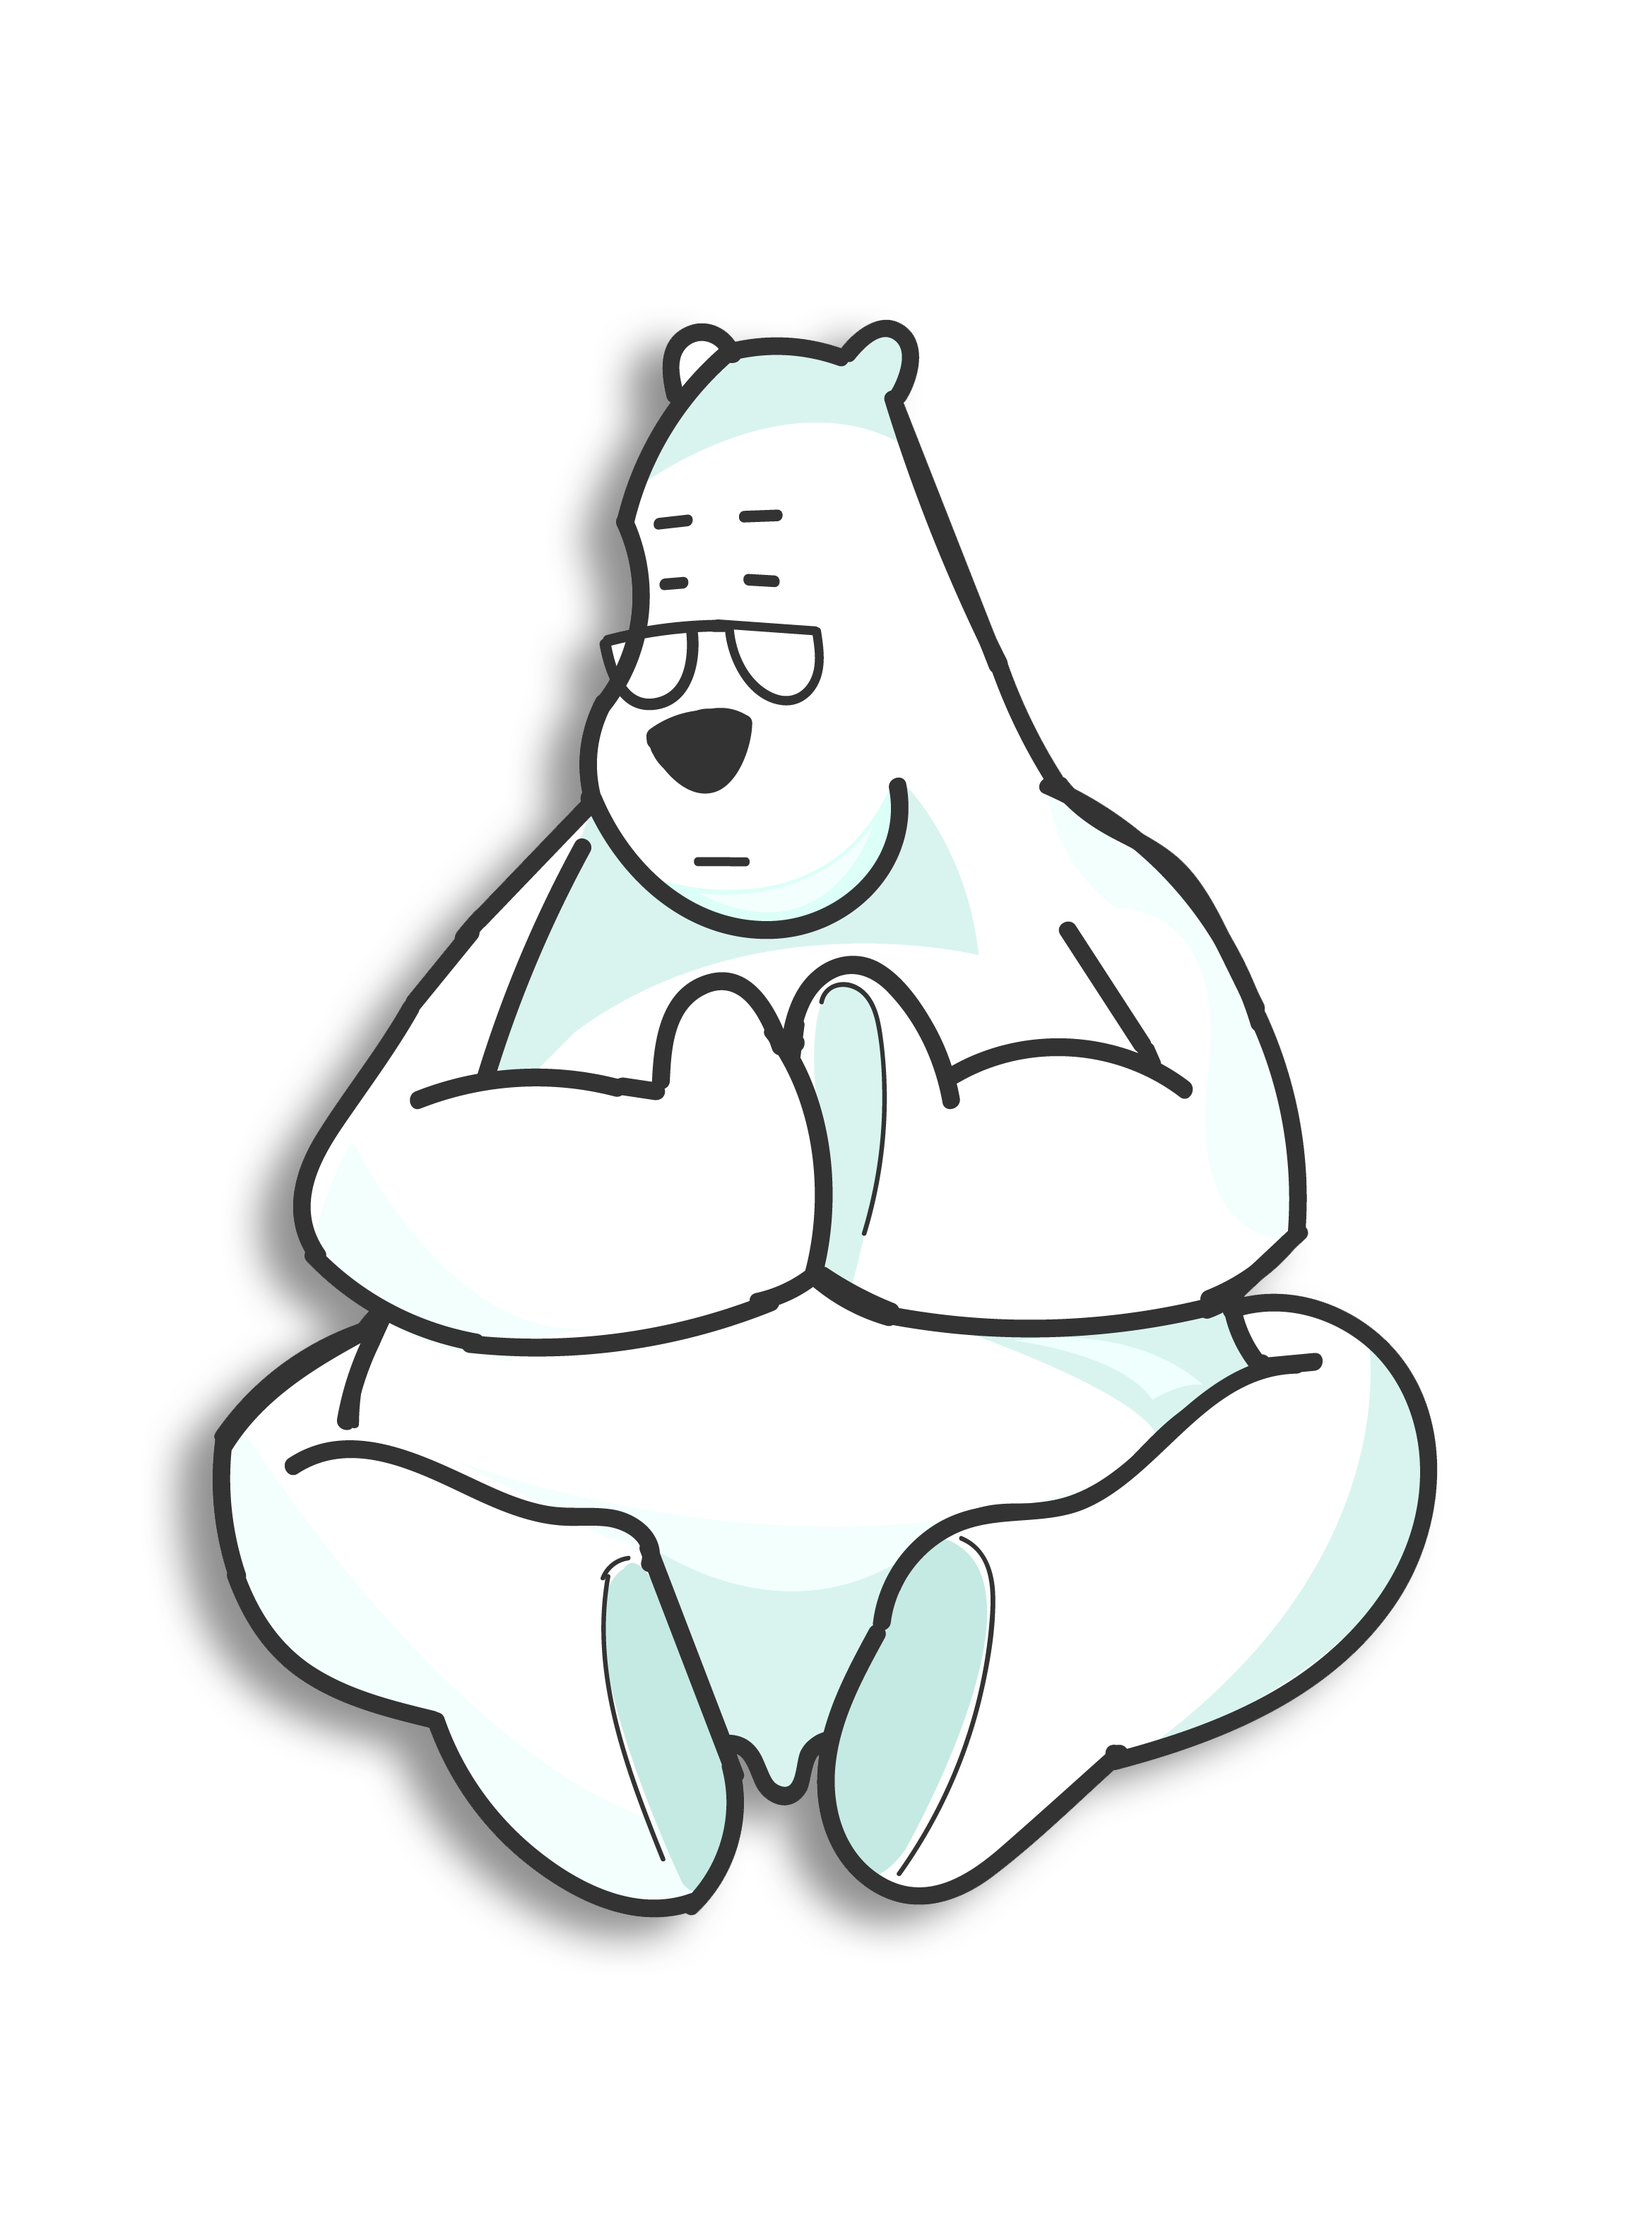
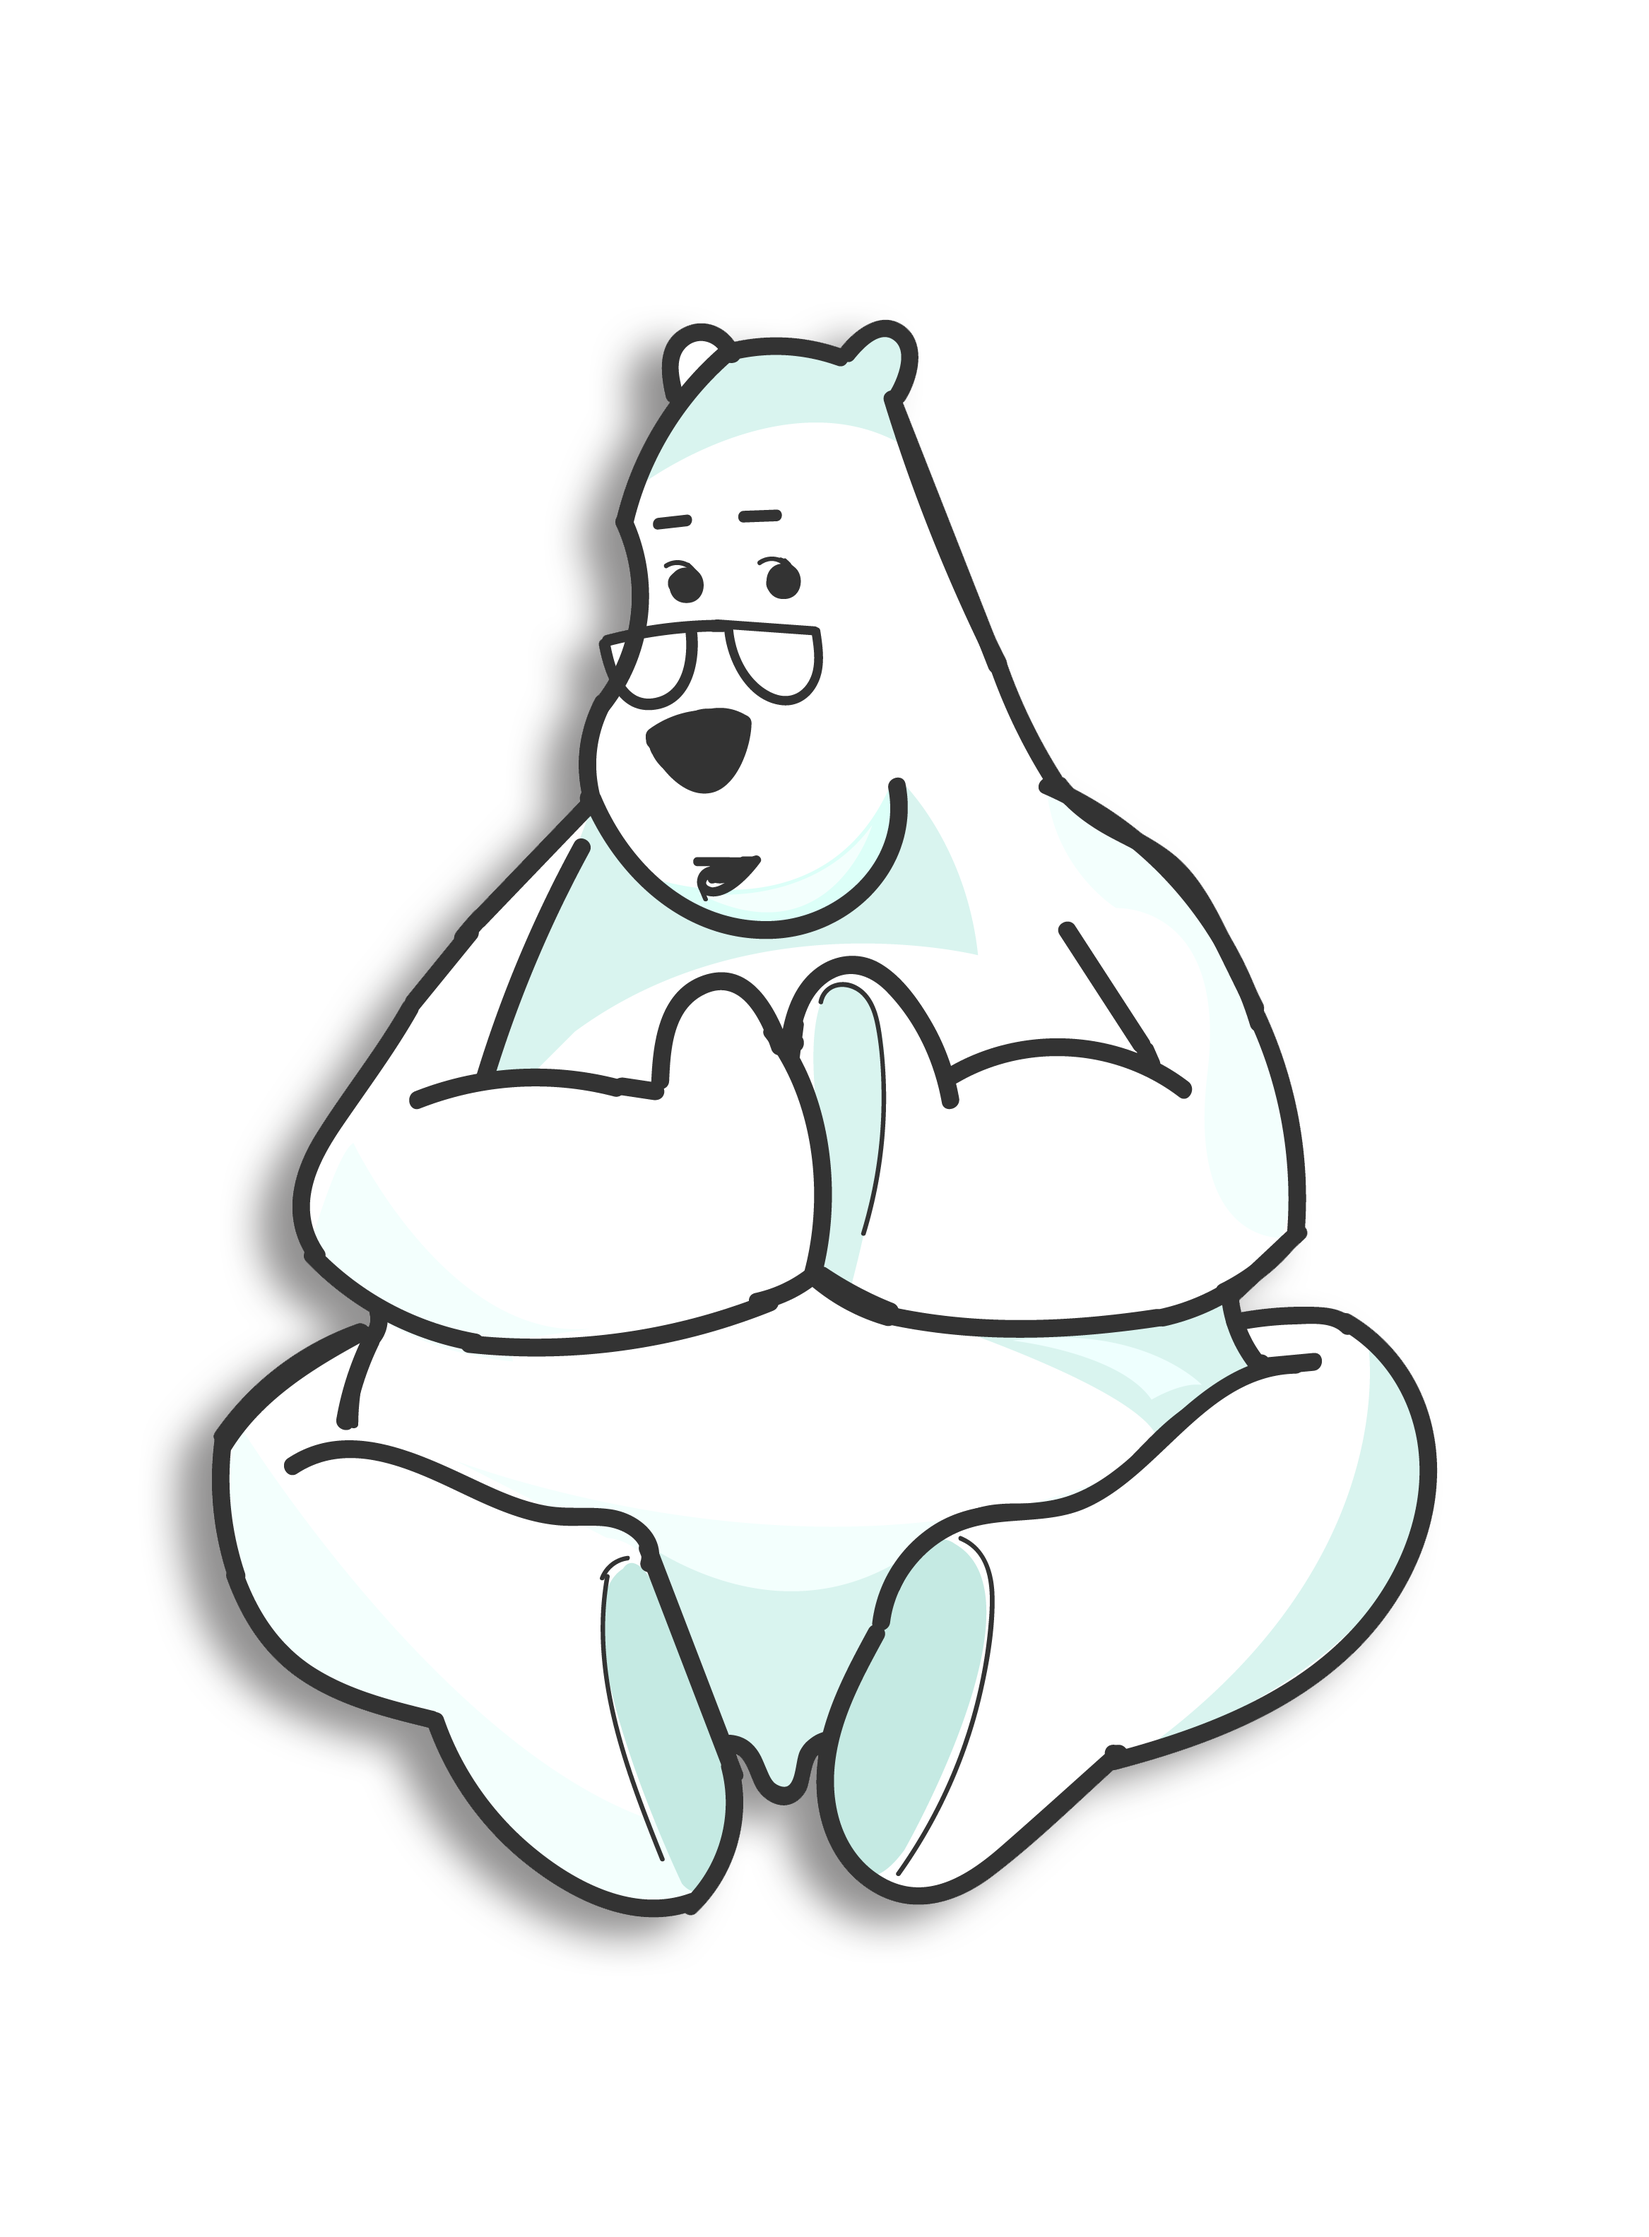
Update Bear animation

diff --git a/style/animation.css b/style/animation.css
@@ -1,6 +1,6 @@
 .animation-container {
   position: fixed;
-  bottom: 1.5em;
+  bottom: 0.5em;
   right: 0;
   z-index: 1000;
   display: -webkit-box;
@@ -16,7 +16,7 @@
 }
 
 .animation-container .character {
-  max-width: 90px;
+  max-width: 120px;
   margin-top: 15px;
   -webkit-animation-name: meditation;
           animation-name: meditation;
@@ -27,13 +27,24 @@
   -webkit-animation-timing-function: ease-in-out;
           animation-timing-function: ease-in-out;
   cursor: pointer;
+  position: absolute;
+  bottom: 0;
+}
+
+.animation-container .first {
+  opacity: 1;
+}
+
+.animation-container .second {
+  opacity: 0;
 }
 
 .animation-container .thinkings {
   display: -webkit-box;
   display: -ms-flexbox;
   display: flex;
-  visibility: hidden;
+  opacity: 0;
+  height: 230px;
 }
 
 .animation-container .thinkings .thinking {
@@ -91,12 +102,12 @@
 }
 
 .animation-container .thinkings .thinking:nth-of-type(1) {
-  -webkit-transform: rotate(-45deg) translate(-45px, 50px);
-          transform: rotate(-45deg) translate(-45px, 50px);
+  -webkit-transform: rotate(-55deg) translate(-70px, 60px);
+          transform: rotate(-55deg) translate(-70px, 60px);
 }
 
 .animation-container .thinkings .thinking:last-child {
-  -webkit-transform: rotate(45deg) translate(45px, 50px);
-          transform: rotate(45deg) translate(45px, 50px);
+  -webkit-transform: rotate(55deg) translate(70px, 60px);
+          transform: rotate(55deg) translate(70px, 60px);
 }
 /*# sourceMappingURL=animation.css.map */

diff --git a/quienes-somos.html b/quienes-somos.html
@@ -36,7 +36,8 @@
             <div class="container">
                 <div class="content-left">
 					<h2>Nuestro Director</h2>
-					<p>Lorem Ipsum is simply dummy text of the printing and typesetting industry. Lorem Ipsum has been the industry's standard dummy text ever since the 1500s and typesetting industry, when an unknown printer took a galley of type and scrambled it to make a type specimen book. It has survived not only five centuries, but also the leap into electronic typesetting when an unknown printer took a galley of type and scrambled it to make a type specimen book.</p>
+					<p>Desde hace años DH se ha dedicado exclusivamente a estudiar, entender y modelar el comportamiento de equipos de trabajo, persiguiendo siempre un solo ideal: impulsar ORGANIZACIONES FELICES y PRODUCTIVAS. La experiencia lograda tanto en el Perú y el extranjero nos permite proclamarnos como especialistas en el modelaje de la conducta grupal humana en el trabajo.</p>
+					<p>Por eso proponemos servicios que ayuden a construir organizaciones inteligentes, con colaboradores proactivos, felices y con propósito.</p>
 					<img src="assets/images/director.png" alt="Hans">
 				</div>
 				<div class="content-right">

diff --git a/style/animation.scss b/style/animation.scss
@@ -1,6 +1,6 @@
 .animation-container{
     position: fixed;
-    bottom: 1.5em;
+    bottom: 0.5em;
     right: 0;
     z-index: 1000;
     display: flex;
@@ -8,18 +8,29 @@
     align-items: center;
 
     .character {
-        max-width: 90px;
+        max-width: 120px;
         margin-top: 15px;
         animation-name: meditation;
         animation-duration: 4s;
         animation-iteration-count: infinite;
         animation-timing-function: ease-in-out;
         cursor: pointer;
+        position: absolute;
+        bottom: 0;
+    }
+
+    .first {
+        opacity: 1;
+    }
+
+    .second {
+        opacity: 0;
     }
 
     .thinkings {
         display: flex;
-        visibility: hidden;
+        opacity: 0;
+        height: 230px;
 
         .thinking {
             position: relative;
@@ -72,11 +83,11 @@
         }
 
         .thinking:nth-of-type(1) {
-            transform: rotate(-45deg) translate(-45px, 50px);
+            transform: rotate(-55deg) translate(-70px, 60px);
         }
 
         .thinking:last-child {
-            transform: rotate(45deg) translate(45px, 50px);
+            transform: rotate(55deg) translate(70px, 60px);
         }
     }
 }

diff --git a/index.html b/index.html
@@ -85,7 +85,8 @@
 				<a href="contacto.html" class="thinking explicit">Agenda una reunión</a>
 				<a href="servicios.html" class="thinking explicit">Conócenos</a>
 			</div>
-			<img class="character" src="./assets/images/oso_sabio.png" alt="DH Corp Oso">
+			<img class="character first" src="./assets/images/oso_sabio1.png" alt="DH Corp Oso">
+			<img class="character second" src="./assets/images/oso_sabio2.png" alt="DH Corp Oso">
 		</div>
 		<script src="https://code.jquery.com/jquery-3.3.1.min.js"></script>
 		<script src="https://cdnjs.cloudflare.com/ajax/libs/Swiper/4.0.7/js/swiper.js"></script>
@@ -93,7 +94,15 @@
 		<script src="script/menu.js"></script>
 		<script>
 			$('.character').click(function() {
-                $('.thinkings').css('visibility','visible');
+				$('.thinkings').animate({
+					opacity:1                   
+				},2000);
+				$('.second').animate({
+					opacity:1                   
+				},4000);
+				$('.first').animate({
+					opacity:0                 
+				},4000);
             });
 		</script>
 	</body>
